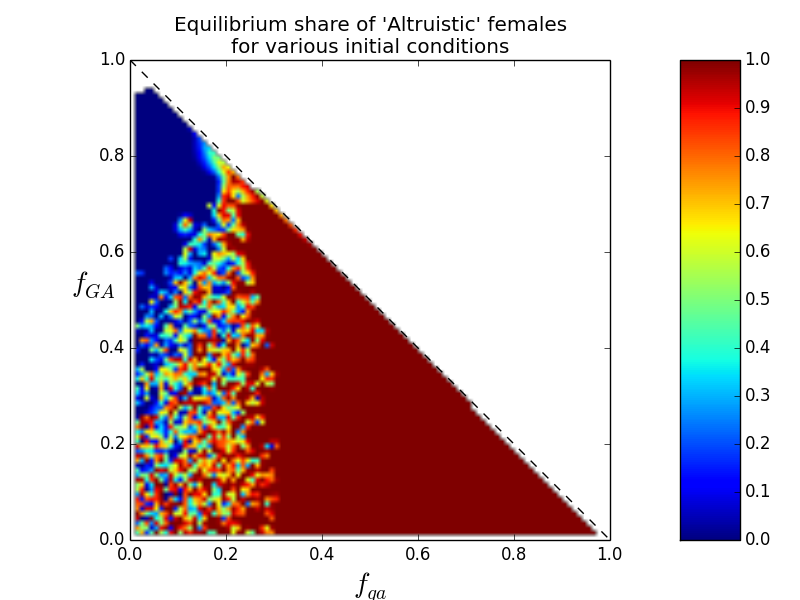
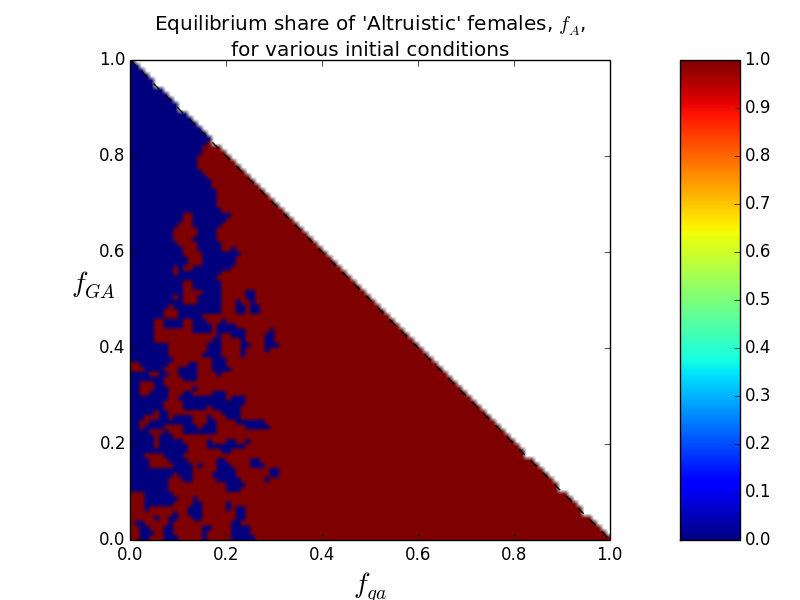
Added another example for imperfect signaling sweeps.

diff --git a/examples/random-screening/imperfect_signaling_sweep_3.py b/examples/random-screening/imperfect_signaling_sweep_3.py
@@ -1,6 +1,7 @@
 import sys
 sys.path.append('../../')
 
+
 import matplotlib.pyplot as plt
 import numpy as np
 from scipy import interpolate
@@ -13,8 +14,10 @@ params = {'dA': 0.25, 'da': 0.25, 'eA': 0.0, 'ea': 0.0, 'PiaA': 6.0,
 
 # define an array of initial conditions
 N = 500
-prng = np.random.RandomState(42)
-initial_males = prng.dirichlet(np.ones(4), size=N)
+prng = np.random.RandomState(2)
+pure_males = prng.dirichlet(np.ones(2), size=N)
+initial_males = np.zeros((N, 4))
+initial_males[:, 0:4:3] = pure_males
 initial_females = initial_males
 initial_conditions = np.hstack((initial_males, initial_females))
 
@@ -52,7 +55,6 @@ interpolated_shares = interpolate.griddata(points=(fga, fGA),
                                            fill_value=np.nan,
                                            )
 
-
 # plot the interpolated values
 mappable = ax.imshow(np.where(fgai + fGAi <= 1.0, interpolated_shares, np.nan),
                      extent=[0, 1, 0, 1], origin='lower', vmin=0, vmax=1)
@@ -70,5 +72,5 @@ fig.subplots_adjust(bottom=0.1, right=0.8, top=0.9)
 cax = fig.add_axes([0.85, 0.1, 0.075, 0.8])
 fig.colorbar(mappable, cax=cax)
 
-fig.savefig('../../images/random-screening/imperfect_signaling_sweep_5.png')
+fig.savefig('../../images/random-screening/imperfect_signaling_sweep_6.png')
 plt.show()
